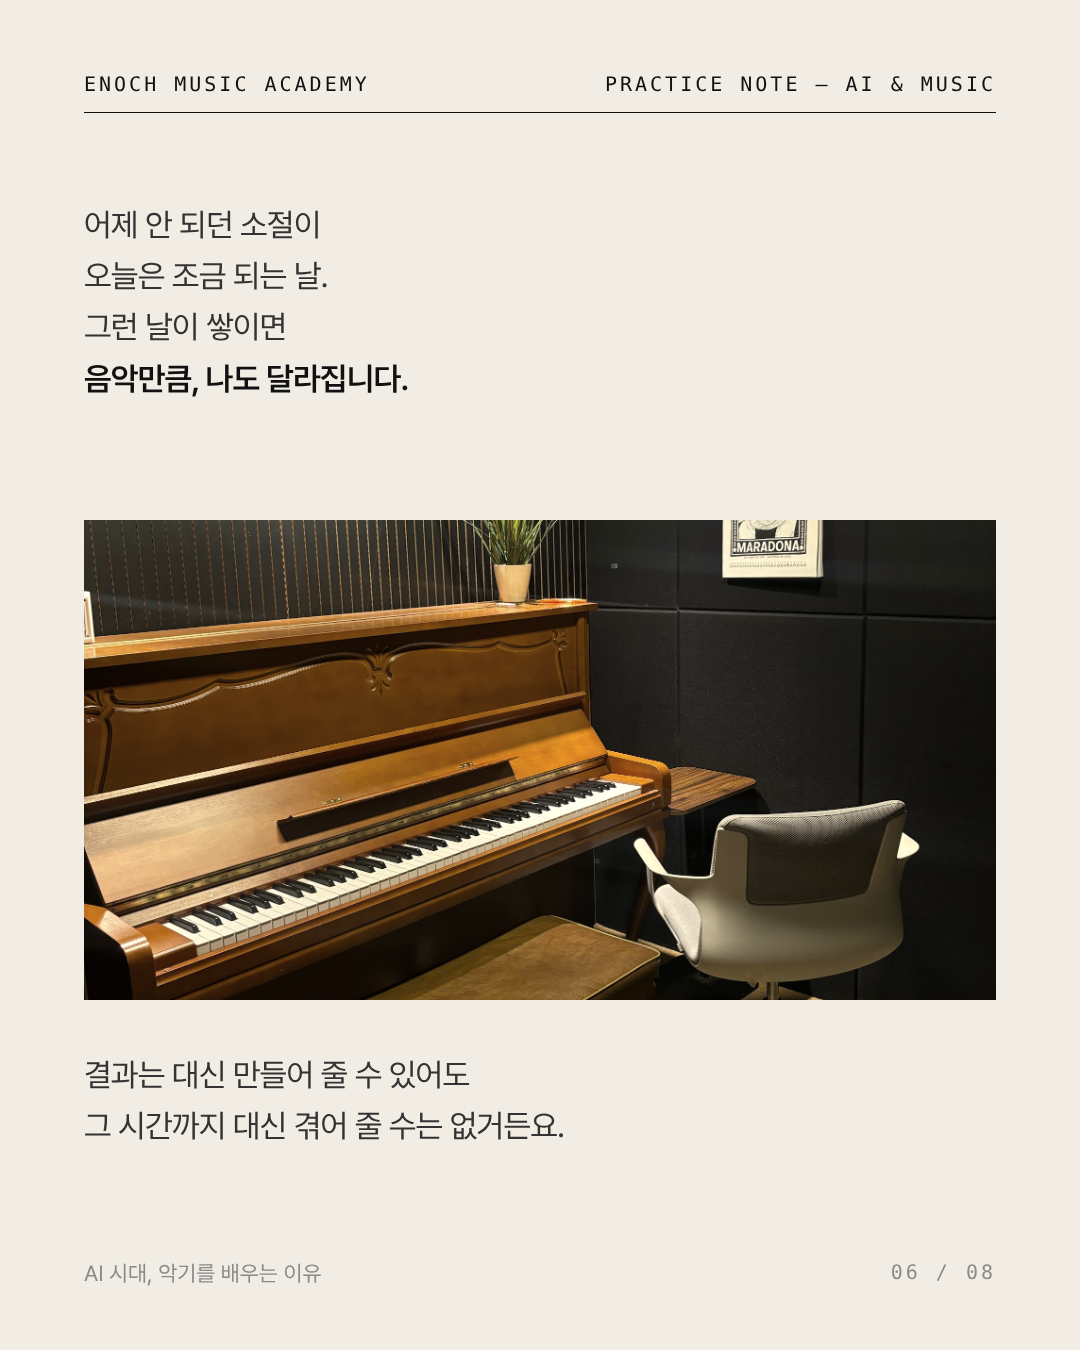
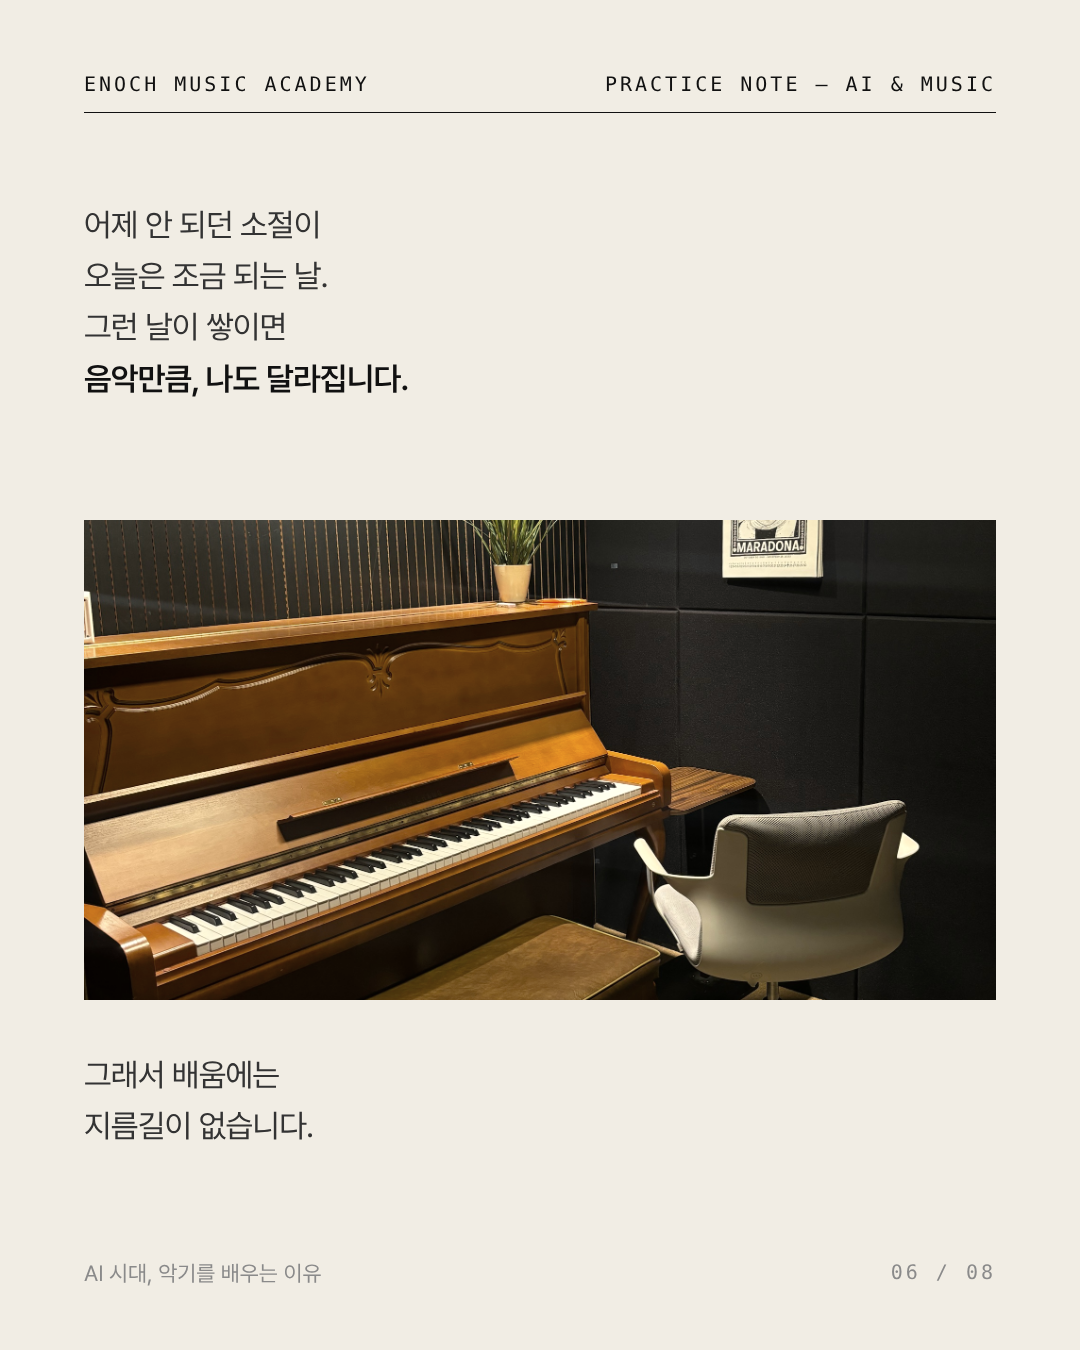
AI 시대 악기: 06장 마지막 줄 '그래서 배움에는 지름길이 없습니다.' (카드·릴스·캡션)
Claude-Session: https://claude.ai/code/session_01HGbZvgMeYrbU7mY8bwfjyb

Changed region(s): [[0.0611, 0.7778, 0.5194, 0.84]]

diff --git a/output/카드뉴스_AI시대악기/cards.html b/output/카드뉴스_AI시대악기/cards.html
@@ -26,4 +26,4 @@ section>div{position:absolute;left:84px}
 .sig{top:540px;font-size:50px;font-weight:600;letter-spacing:-2px;line-height:1.35}
 .info{right:84px;top:840px;font-size:24px;line-height:1.9;color:#B9B4AA;border-top:1px solid #444;padding-top:24px}
 .info b{display:inline-block;width:90px;font-weight:600;color:#F1EDE4}
-</style></head><body><section class=""><div class="hd mono"><span>ENOCH MUSIC ACADEMY</span><span>PRACTICE NOTE — AI &amp; MUSIC</span></div><div class="ph" style="left:84px;top:150px;width:912px;height:760px"><img src="src/main.jpg" style="object-position:50% 40%;filter:saturate(.8) sepia(.06) brightness(1.18)"></div><div class="sub" style="top:968px">AI가 곡을 만드는 시대,</div><div class="h1" style="top:1020px">악기를 배우는 것이<br>더 중요한 이유</div><div class="ft"><span>AI 시대, 악기를 배우는 이유</span><span class="mono">01 / 08</span></div></section><section class=""><div class="hd mono"><span>ENOCH MUSIC ACADEMY</span><span>PRACTICE NOTE — AI &amp; MUSIC</span></div><div class="p big" style="top:330px">버튼 몇 번이면<br>노래 한 곡이 완성되는 요즘.</div><div class="p big" style="top:560px">곡을 갖는 것은<br>결과 하나를 얻는 일이지만,</div><div class="p big" style="top:790px">직접 연주할 수 있게 되는 건<br><b>내가 듣는 세계가 넓어지는 일입니다.</b></div><div class="ft"><span>AI 시대, 악기를 배우는 이유</span><span class="mono">02 / 08</span></div></section><section class=""><div class="hd mono"><span>ENOCH MUSIC ACADEMY</span><span>PRACTICE NOTE — AI &amp; MUSIC</span></div><div class="lab mono" style="top:170px">REASON 01</div><div class="h2" style="top:210px">듣는 귀가 달라집니다</div><div class="ph" style="left:84px;top:330px;width:912px;height:560px"><img src="../../images/공간/기타앰프_01.jpg" style="object-position:50% 55%;"></div><div class="p" style="top:940px">직접 연주해 본 사람은 음악을 다르게 듣습니다.<br>좋아하던 노래를 다시 들었을 때,<br>처음 듣는 소리가 들리는 것.<br>그건 직접 해 본 사람만 얻는 귀예요.</div><div class="ft"><span>AI 시대, 악기를 배우는 이유</span><span class="mono">03 / 08</span></div></section><section class=""><div class="hd mono"><span>ENOCH MUSIC ACADEMY</span><span>PRACTICE NOTE — AI &amp; MUSIC</span></div><div class="lab mono" style="top:170px">REASON 02</div><div class="h2" style="top:210px">나만의 소리는<br>대신 정해 줄 수 없어요</div><div class="ph" style="left:84px;top:410px;width:912px;height:520px"><img src="../../images/공간/보컬부스_01.jpg" style="object-position:50% 45%;"></div><div class="p" style="top:980px">같은 곡도 연주하는 사람마다 다르게 들립니다.<br>어디서 숨을 쉬고, 어디에 힘을 줄지.<br>그 선택이 쌓여 내 소리가 됩니다.</div><div class="ft"><span>AI 시대, 악기를 배우는 이유</span><span class="mono">04 / 08</span></div></section><section class=""><div class="hd mono"><span>ENOCH MUSIC ACADEMY</span><span>PRACTICE NOTE — AI &amp; MUSIC</span></div><div class="lab mono" style="top:220px">REASON 03</div><div class="h0" style="top:270px">대신 해 줄 수<br>없는 시간이<br>있습니다</div><div class="ft"><span>AI 시대, 악기를 배우는 이유</span><span class="mono">05 / 08</span></div></section><section class=""><div class="hd mono"><span>ENOCH MUSIC ACADEMY</span><span>PRACTICE NOTE — AI &amp; MUSIC</span></div><div class="p" style="top:200px">어제 안 되던 소절이<br>오늘은 조금 되는 날.<br>그런 날이 쌓이면<br><b>음악만큼, 나도 달라집니다.</b></div><div class="ph" style="left:84px;top:520px;width:912px;height:480px"><img src="../../images/공간/피아노방_01.jpg" style="object-position:50% 62%;"></div><div class="p" style="top:1050px">결과는 대신 만들어 줄 수 있어도<br>그 시간까지 대신 겪어 줄 수는 없거든요.</div><div class="ft"><span>AI 시대, 악기를 배우는 이유</span><span class="mono">06 / 08</span></div></section><section class=""><div class="hd mono"><span>ENOCH MUSIC ACADEMY</span><span>PRACTICE NOTE — AI &amp; MUSIC</span></div><div class="p big" style="top:470px">누구나 결과를 가질 수 있는 시대일수록,<br><b>직접 소리를 낼 수 있는 사람의 가치는<br>더 커집니다.</b></div><div class="ft"><span>AI 시대, 악기를 배우는 이유</span><span class="mono">07 / 08</span></div></section><section class="dk"><div class="hd mono"><span>ENOCH MUSIC ACADEMY</span><span>PRACTICE NOTE — AI &amp; MUSIC</span></div><div class="ghost">ENOCH</div><div class="sig">같은 곡도, 사람마다 다르게.<br>나만의 진짜 소리를 찾는 곳.</div><div class="info"><p><b>주소</b>경기도 시흥시 은행로 157 2층</p><p><b>전화</b>031 315 3666</p><p><b>운영</b>평일 13:00–22:00 · 토 10:00–18:00 · 일요일 휴무</p><p><b>과목</b>Vocal · Guitar · Drum · Bass · Piano · MIDI · 작곡 — 1:1 레슨</p><p><b>예약</b>체험수업 네이버 플레이스 · 방문 상담 네이버 톡톡 · 카카오톡 채널 · 전화</p></div><div class="ft"><span>AI 시대, 악기를 배우는 이유</span><span class="mono">08 / 08</span></div></section></body></html>
+</style></head><body><section class=""><div class="hd mono"><span>ENOCH MUSIC ACADEMY</span><span>PRACTICE NOTE — AI &amp; MUSIC</span></div><div class="ph" style="left:84px;top:150px;width:912px;height:760px"><img src="src/main.jpg" style="object-position:50% 40%;filter:saturate(.8) sepia(.06) brightness(1.18)"></div><div class="sub" style="top:968px">AI가 곡을 만드는 시대,</div><div class="h1" style="top:1020px">악기를 배우는 것이<br>더 중요한 이유</div><div class="ft"><span>AI 시대, 악기를 배우는 이유</span><span class="mono">01 / 08</span></div></section><section class=""><div class="hd mono"><span>ENOCH MUSIC ACADEMY</span><span>PRACTICE NOTE — AI &amp; MUSIC</span></div><div class="p big" style="top:330px">버튼 몇 번이면<br>노래 한 곡이 완성되는 요즘.</div><div class="p big" style="top:560px">곡을 갖는 것은<br>결과 하나를 얻는 일이지만,</div><div class="p big" style="top:790px">직접 연주할 수 있게 되는 건<br><b>내가 듣는 세계가 넓어지는 일입니다.</b></div><div class="ft"><span>AI 시대, 악기를 배우는 이유</span><span class="mono">02 / 08</span></div></section><section class=""><div class="hd mono"><span>ENOCH MUSIC ACADEMY</span><span>PRACTICE NOTE — AI &amp; MUSIC</span></div><div class="lab mono" style="top:170px">REASON 01</div><div class="h2" style="top:210px">듣는 귀가 달라집니다</div><div class="ph" style="left:84px;top:330px;width:912px;height:560px"><img src="../../images/공간/기타앰프_01.jpg" style="object-position:50% 55%;"></div><div class="p" style="top:940px">직접 연주해 본 사람은 음악을 다르게 듣습니다.<br>좋아하던 노래를 다시 들었을 때,<br>처음 듣는 소리가 들리는 것.<br>그건 직접 해 본 사람만 얻는 귀예요.</div><div class="ft"><span>AI 시대, 악기를 배우는 이유</span><span class="mono">03 / 08</span></div></section><section class=""><div class="hd mono"><span>ENOCH MUSIC ACADEMY</span><span>PRACTICE NOTE — AI &amp; MUSIC</span></div><div class="lab mono" style="top:170px">REASON 02</div><div class="h2" style="top:210px">나만의 소리는<br>대신 정해 줄 수 없어요</div><div class="ph" style="left:84px;top:410px;width:912px;height:520px"><img src="../../images/공간/보컬부스_01.jpg" style="object-position:50% 45%;"></div><div class="p" style="top:980px">같은 곡도 연주하는 사람마다 다르게 들립니다.<br>어디서 숨을 쉬고, 어디에 힘을 줄지.<br>그 선택이 쌓여 내 소리가 됩니다.</div><div class="ft"><span>AI 시대, 악기를 배우는 이유</span><span class="mono">04 / 08</span></div></section><section class=""><div class="hd mono"><span>ENOCH MUSIC ACADEMY</span><span>PRACTICE NOTE — AI &amp; MUSIC</span></div><div class="lab mono" style="top:220px">REASON 03</div><div class="h0" style="top:270px">대신 해 줄 수<br>없는 시간이<br>있습니다</div><div class="ft"><span>AI 시대, 악기를 배우는 이유</span><span class="mono">05 / 08</span></div></section><section class=""><div class="hd mono"><span>ENOCH MUSIC ACADEMY</span><span>PRACTICE NOTE — AI &amp; MUSIC</span></div><div class="p" style="top:200px">어제 안 되던 소절이<br>오늘은 조금 되는 날.<br>그런 날이 쌓이면<br><b>음악만큼, 나도 달라집니다.</b></div><div class="ph" style="left:84px;top:520px;width:912px;height:480px"><img src="../../images/공간/피아노방_01.jpg" style="object-position:50% 62%;"></div><div class="p" style="top:1050px">그래서 배움에는<br>지름길이 없습니다.</div><div class="ft"><span>AI 시대, 악기를 배우는 이유</span><span class="mono">06 / 08</span></div></section><section class=""><div class="hd mono"><span>ENOCH MUSIC ACADEMY</span><span>PRACTICE NOTE — AI &amp; MUSIC</span></div><div class="p big" style="top:470px">누구나 결과를 가질 수 있는 시대일수록,<br><b>직접 소리를 낼 수 있는 사람의 가치는<br>더 커집니다.</b></div><div class="ft"><span>AI 시대, 악기를 배우는 이유</span><span class="mono">07 / 08</span></div></section><section class="dk"><div class="hd mono"><span>ENOCH MUSIC ACADEMY</span><span>PRACTICE NOTE — AI &amp; MUSIC</span></div><div class="ghost">ENOCH</div><div class="sig">같은 곡도, 사람마다 다르게.<br>나만의 진짜 소리를 찾는 곳.</div><div class="info"><p><b>주소</b>경기도 시흥시 은행로 157 2층</p><p><b>전화</b>031 315 3666</p><p><b>운영</b>평일 13:00–22:00 · 토 10:00–18:00 · 일요일 휴무</p><p><b>과목</b>Vocal · Guitar · Drum · Bass · Piano · MIDI · 작곡 — 1:1 레슨</p><p><b>예약</b>체험수업 네이버 플레이스 · 방문 상담 네이버 톡톡 · 카카오톡 채널 · 전화</p></div><div class="ft"><span>AI 시대, 악기를 배우는 이유</span><span class="mono">08 / 08</span></div></section></body></html>

diff --git a/output/카드뉴스_AI시대악기/reel.html b/output/카드뉴스_AI시대악기/reel.html
@@ -24,7 +24,7 @@ body{width:1080px;height:1920px;overflow:hidden;background:#F1EDE4;font-family:P
 .sig{font-size:56px;font-weight:600;letter-spacing:-2px;line-height:1.35}
 .inf{font-size:30px;color:#B9B4AA;letter-spacing:-.5px}
 .inf.mono{color:#F1EDE4;letter-spacing:2px}
-</style></head><body><section class="sc" id="s0"><div class="hd mono"><span>ENOCH MUSIC ACADEMY</span><span>PRACTICE NOTE — AI &amp; MUSIC</span></div><div class="ph" data-d="0.1" style="left:84px;top:300px;width:912px;height:900px"><img src="src/main.jpg" style="object-position:50% 40%;filter:saturate(.8) sepia(.06) brightness(1.18)"></div><div class="a sub" data-d="0.6" style="left:84px;top:1270px">AI가 곡을 만드는 시대,</div><div class="a h1" data-d="0.9" style="left:84px;top:1330px">악기를 배우는 것이<br>더 중요한 이유</div></section><section class="sc" id="s1"><div class="hd mono"><span>ENOCH MUSIC ACADEMY</span><span>PRACTICE NOTE — AI &amp; MUSIC</span></div><div class="a big" data-d="0.1" style="left:84px;top:560px">버튼 몇 번이면<br>노래 한 곡이 완성되는 요즘.</div><div class="a big" data-d="0.9" style="left:84px;top:820px">곡을 갖는 것은<br>결과 하나를 얻는 일이지만,</div><div class="a big" data-d="1.7" style="left:84px;top:1080px">직접 연주할 수 있게 되는 건<br><b>내가 듣는 세계가 넓어지는 일입니다.</b></div></section><section class="sc" id="s2"><div class="hd mono"><span>ENOCH MUSIC ACADEMY</span><span>PRACTICE NOTE — AI &amp; MUSIC</span></div><div class="a lab mono" data-d="0.0" style="left:84px;top:380px">REASON 01</div><div class="a h2" data-d="0.15" style="left:84px;top:424px">듣는 귀가 달라집니다</div><div class="ph" data-d="0.4" style="left:84px;top:560px;width:912px;height:640px"><img src="../../images/공간/기타앰프_01.jpg" style="object-position:50% 55%;"></div><div class="a p" data-d="1.0" style="left:84px;top:1260px">직접 연주해 본 사람은 음악을 다르게 듣습니다.<br>좋아하던 노래를 다시 들었을 때,<br>처음 듣는 소리가 들리는 것.<br>그건 직접 해 본 사람만 얻는 귀예요.</div></section><section class="sc" id="s3"><div class="hd mono"><span>ENOCH MUSIC ACADEMY</span><span>PRACTICE NOTE — AI &amp; MUSIC</span></div><div class="a lab mono" data-d="0.0" style="left:84px;top:340px">REASON 02</div><div class="a h2" data-d="0.15" style="left:84px;top:384px">나만의 소리는<br>대신 정해 줄 수 없어요</div><div class="ph" data-d="0.4" style="left:84px;top:600px;width:912px;height:600px"><img src="../../images/공간/보컬부스_01.jpg" style="object-position:50% 45%;"></div><div class="a p" data-d="1.0" style="left:84px;top:1260px">같은 곡도 연주하는 사람마다 다르게 들립니다.<br>어디서 숨을 쉬고, 어디에 힘을 줄지.<br>그 선택이 쌓여 내 소리가 됩니다.</div></section><section class="sc" id="s4"><div class="hd mono"><span>ENOCH MUSIC ACADEMY</span><span>PRACTICE NOTE — AI &amp; MUSIC</span></div><div class="a lab mono" data-d="0.0" style="left:84px;top:380px">REASON 03</div><div class="a h0" data-d="0.25" style="left:84px;top:430px">대신 해 줄 수<br>없는 시간이<br>있습니다</div></section><section class="sc" id="s5"><div class="hd mono"><span>ENOCH MUSIC ACADEMY</span><span>PRACTICE NOTE — AI &amp; MUSIC</span></div><div class="a p lg" data-d="0.1" style="left:84px;top:360px">어제 안 되던 소절이<br>오늘은 조금 되는 날.<br>그런 날이 쌓이면<br><b>음악만큼, 나도 달라집니다.</b></div><div class="ph" data-d="0.8" style="left:84px;top:760px;width:912px;height:560px"><img src="../../images/공간/피아노방_01.jpg" style="object-position:50% 62%;"></div><div class="a p lg" data-d="1.8" style="left:84px;top:1380px">결과는 대신 만들어 줄 수 있어도<br>그 시간까지 대신 겪어 줄 수는 없거든요.</div></section><section class="sc" id="s6"><div class="hd mono"><span>ENOCH MUSIC ACADEMY</span><span>PRACTICE NOTE — AI &amp; MUSIC</span></div><div class="a big" data-d="0.1" style="left:84px;top:760px">누구나 결과를 가질 수 있는<br>시대일수록,</div><div class="a big" data-d="0.9" style="left:84px;top:920px"><b>직접 소리를 낼 수 있는 사람의 가치는<br>더 커집니다.</b></div></section><section class="sc dk" id="s7"><div class="hd mono"><span>ENOCH MUSIC ACADEMY</span><span>PRACTICE NOTE — AI &amp; MUSIC</span></div><div class="ghost">ENOCH</div><div class="a sig" data-d="0.2" style="left:84px;top:720px">같은 곡도, 사람마다 다르게.<br>나만의 진짜 소리를 찾는 곳.</div><div class="a inf" data-d="0.8" style="left:84px;top:1020px">에녹실용음악학원 시흥점</div><div class="a inf mono" data-d="0.9" style="left:84px;top:1070px">031 315 3666</div><div class="a inf" data-d="1.0" style="left:84px;top:1120px">경기도 시흥시 은행로 157 2층</div><div class="a inf" data-d="1.1" style="left:84px;top:1170px">체험수업 · 네이버 플레이스 예약</div></section>
+</style></head><body><section class="sc" id="s0"><div class="hd mono"><span>ENOCH MUSIC ACADEMY</span><span>PRACTICE NOTE — AI &amp; MUSIC</span></div><div class="ph" data-d="0.1" style="left:84px;top:300px;width:912px;height:900px"><img src="src/main.jpg" style="object-position:50% 40%;filter:saturate(.8) sepia(.06) brightness(1.18)"></div><div class="a sub" data-d="0.6" style="left:84px;top:1270px">AI가 곡을 만드는 시대,</div><div class="a h1" data-d="0.9" style="left:84px;top:1330px">악기를 배우는 것이<br>더 중요한 이유</div></section><section class="sc" id="s1"><div class="hd mono"><span>ENOCH MUSIC ACADEMY</span><span>PRACTICE NOTE — AI &amp; MUSIC</span></div><div class="a big" data-d="0.1" style="left:84px;top:560px">버튼 몇 번이면<br>노래 한 곡이 완성되는 요즘.</div><div class="a big" data-d="0.9" style="left:84px;top:820px">곡을 갖는 것은<br>결과 하나를 얻는 일이지만,</div><div class="a big" data-d="1.7" style="left:84px;top:1080px">직접 연주할 수 있게 되는 건<br><b>내가 듣는 세계가 넓어지는 일입니다.</b></div></section><section class="sc" id="s2"><div class="hd mono"><span>ENOCH MUSIC ACADEMY</span><span>PRACTICE NOTE — AI &amp; MUSIC</span></div><div class="a lab mono" data-d="0.0" style="left:84px;top:380px">REASON 01</div><div class="a h2" data-d="0.15" style="left:84px;top:424px">듣는 귀가 달라집니다</div><div class="ph" data-d="0.4" style="left:84px;top:560px;width:912px;height:640px"><img src="../../images/공간/기타앰프_01.jpg" style="object-position:50% 55%;"></div><div class="a p" data-d="1.0" style="left:84px;top:1260px">직접 연주해 본 사람은 음악을 다르게 듣습니다.<br>좋아하던 노래를 다시 들었을 때,<br>처음 듣는 소리가 들리는 것.<br>그건 직접 해 본 사람만 얻는 귀예요.</div></section><section class="sc" id="s3"><div class="hd mono"><span>ENOCH MUSIC ACADEMY</span><span>PRACTICE NOTE — AI &amp; MUSIC</span></div><div class="a lab mono" data-d="0.0" style="left:84px;top:340px">REASON 02</div><div class="a h2" data-d="0.15" style="left:84px;top:384px">나만의 소리는<br>대신 정해 줄 수 없어요</div><div class="ph" data-d="0.4" style="left:84px;top:600px;width:912px;height:600px"><img src="../../images/공간/보컬부스_01.jpg" style="object-position:50% 45%;"></div><div class="a p" data-d="1.0" style="left:84px;top:1260px">같은 곡도 연주하는 사람마다 다르게 들립니다.<br>어디서 숨을 쉬고, 어디에 힘을 줄지.<br>그 선택이 쌓여 내 소리가 됩니다.</div></section><section class="sc" id="s4"><div class="hd mono"><span>ENOCH MUSIC ACADEMY</span><span>PRACTICE NOTE — AI &amp; MUSIC</span></div><div class="a lab mono" data-d="0.0" style="left:84px;top:380px">REASON 03</div><div class="a h0" data-d="0.25" style="left:84px;top:430px">대신 해 줄 수<br>없는 시간이<br>있습니다</div></section><section class="sc" id="s5"><div class="hd mono"><span>ENOCH MUSIC ACADEMY</span><span>PRACTICE NOTE — AI &amp; MUSIC</span></div><div class="a p lg" data-d="0.1" style="left:84px;top:360px">어제 안 되던 소절이<br>오늘은 조금 되는 날.<br>그런 날이 쌓이면<br><b>음악만큼, 나도 달라집니다.</b></div><div class="ph" data-d="0.8" style="left:84px;top:760px;width:912px;height:560px"><img src="../../images/공간/피아노방_01.jpg" style="object-position:50% 62%;"></div><div class="a p lg" data-d="1.8" style="left:84px;top:1380px">그래서 배움에는<br>지름길이 없습니다.</div></section><section class="sc" id="s6"><div class="hd mono"><span>ENOCH MUSIC ACADEMY</span><span>PRACTICE NOTE — AI &amp; MUSIC</span></div><div class="a big" data-d="0.1" style="left:84px;top:760px">누구나 결과를 가질 수 있는<br>시대일수록,</div><div class="a big" data-d="0.9" style="left:84px;top:920px"><b>직접 소리를 낼 수 있는 사람의 가치는<br>더 커집니다.</b></div></section><section class="sc dk" id="s7"><div class="hd mono"><span>ENOCH MUSIC ACADEMY</span><span>PRACTICE NOTE — AI &amp; MUSIC</span></div><div class="ghost">ENOCH</div><div class="a sig" data-d="0.2" style="left:84px;top:720px">같은 곡도, 사람마다 다르게.<br>나만의 진짜 소리를 찾는 곳.</div><div class="a inf" data-d="0.8" style="left:84px;top:1020px">에녹실용음악학원 시흥점</div><div class="a inf mono" data-d="0.9" style="left:84px;top:1070px">031 315 3666</div><div class="a inf" data-d="1.0" style="left:84px;top:1120px">경기도 시흥시 은행로 157 2층</div><div class="a inf" data-d="1.1" style="left:84px;top:1170px">체험수업 · 네이버 플레이스 예약</div></section>
 <script>
 const T=[0.0, 3.2, 6.8, 10.6, 14.4, 17.4, 21.4, 24.4, 28.01];
 const cl=x=>Math.max(0,Math.min(1,x)); const ease=x=>1-Math.pow(1-cl(x),3);

diff --git a/output/카드뉴스_AI시대악기/cards.py b/output/카드뉴스_AI시대악기/cards.py
@@ -38,7 +38,7 @@ C = [
          '<div class="h0" style="top:270px">대신 해 줄 수<br>없는 시간이<br>있습니다</div>'),
     card(6, '<div class="p" style="top:200px">어제 안 되던 소절이<br>오늘은 조금 되는 날.<br>그런 날이 쌓이면<br><b>음악만큼, 나도 달라집니다.</b></div>'
          + ph('피아노방_01.jpg', 84, 520, 912, 480, '50% 62%')
-         + '<div class="p" style="top:1050px">결과는 대신 만들어 줄 수 있어도<br>그 시간까지 대신 겪어 줄 수는 없거든요.</div>'),
+         + '<div class="p" style="top:1050px">그래서 배움에는<br>지름길이 없습니다.</div>'),
     card(7, '<div class="p big" style="top:470px">누구나 결과를 가질 수 있는 시대일수록,<br><b>직접 소리를 낼 수 있는 사람의 가치는<br>더 커집니다.</b></div>'),
     card(8, '<div class="ghost">ENOCH</div>'
          '<div class="sig">같은 곡도, 사람마다 다르게.<br>나만의 진짜 소리를 찾는 곳.</div>'

diff --git a/output/카드뉴스_AI시대악기/reel.py b/output/카드뉴스_AI시대악기/reel.py
@@ -32,7 +32,7 @@ SC = [
     (3.0, False, a('REASON 03', 380, 'lab mono', 0.0) + a('대신 해 줄 수<br>없는 시간이<br>있습니다', 430, 'h0', 0.25)),
     (4.0, False, a('어제 안 되던 소절이<br>오늘은 조금 되는 날.<br>그런 날이 쌓이면<br><b>음악만큼, 나도 달라집니다.</b>', 360, 'p lg', 0.1)
      + ph('피아노방_01.jpg', 760, 560, 0.8, '50% 62%')
-     + a('결과는 대신 만들어 줄 수 있어도<br>그 시간까지 대신 겪어 줄 수는 없거든요.', 1380, 'p lg', 1.8)),
+     + a('그래서 배움에는<br>지름길이 없습니다.', 1380, 'p lg', 1.8)),
     (3.0, False, a('누구나 결과를 가질 수 있는<br>시대일수록,', 760, 'big', 0.1)
      + a('<b>직접 소리를 낼 수 있는 사람의 가치는<br>더 커집니다.</b>', 920, 'big', 0.9)),
     (3.6, True, '<div class="ghost">ENOCH</div>' + a('같은 곡도, 사람마다 다르게.<br>나만의 진짜 소리를 찾는 곳.', 720, 'sig', 0.2)

diff --git a/output/카드뉴스_AI시대악기/caption.md b/output/카드뉴스_AI시대악기/caption.md
@@ -1,6 +1,6 @@
 # 캡션 — AI가 곡을 만드는 시대, 악기를 배우는 것이 더 중요한 이유
 
-요즘은 버튼 몇 번이면 노래 한 곡이 만들어집니다. 곡을 갖는 건 결과 하나를 얻는 일이지만, 직접 연주할 수 있게 되는 건 내가 듣는 세계가 넓어지는 일이에요. 어제 안 되던 소절이 오늘은 조금 되는 날이 쌓이면, 음악만큼 나도 달라집니다. 결과는 대신 만들어 줄 수 있어도 그 시간까지 대신 겪어 줄 수는 없거든요.
+요즘은 버튼 몇 번이면 노래 한 곡이 만들어집니다. 곡을 갖는 건 결과 하나를 얻는 일이지만, 직접 연주할 수 있게 되는 건 내가 듣는 세계가 넓어지는 일이에요. 어제 안 되던 소절이 오늘은 조금 되는 날이 쌓이면, 음악만큼 나도 달라집니다. 그래서 배움에는 지름길이 없습니다.
 
 에녹실용음악학원 시흥점은 같은 곡도 사람마다 다르게 가르치는 1:1 레슨을 합니다. 체험수업은 네이버 플레이스에서 예약할 수 있습니다.
 
